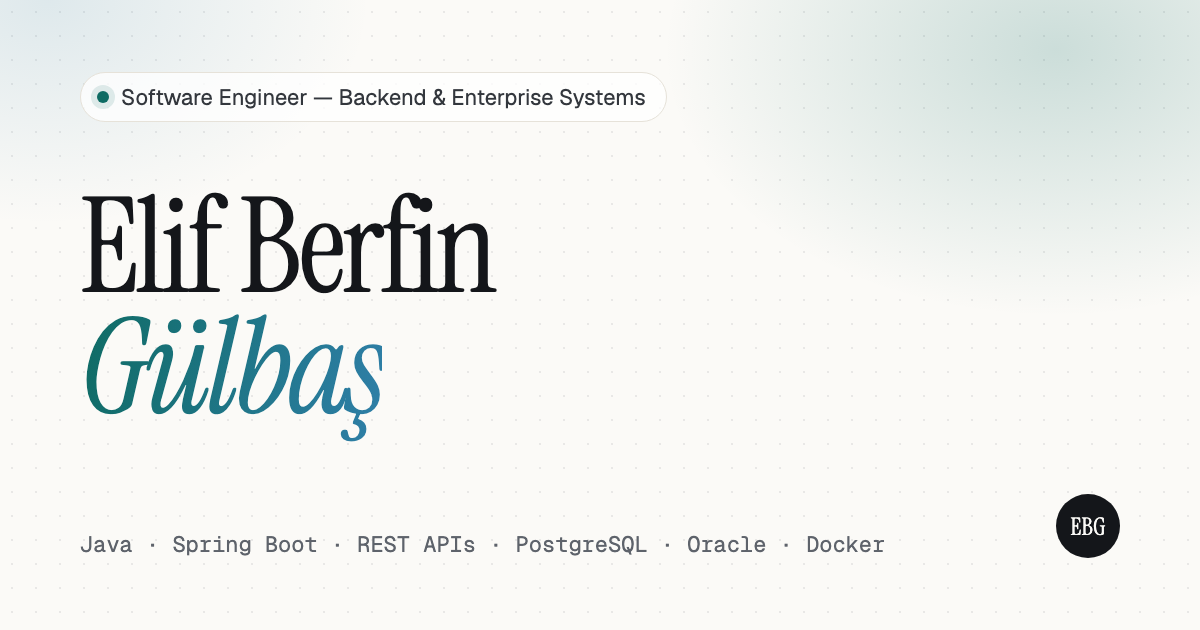
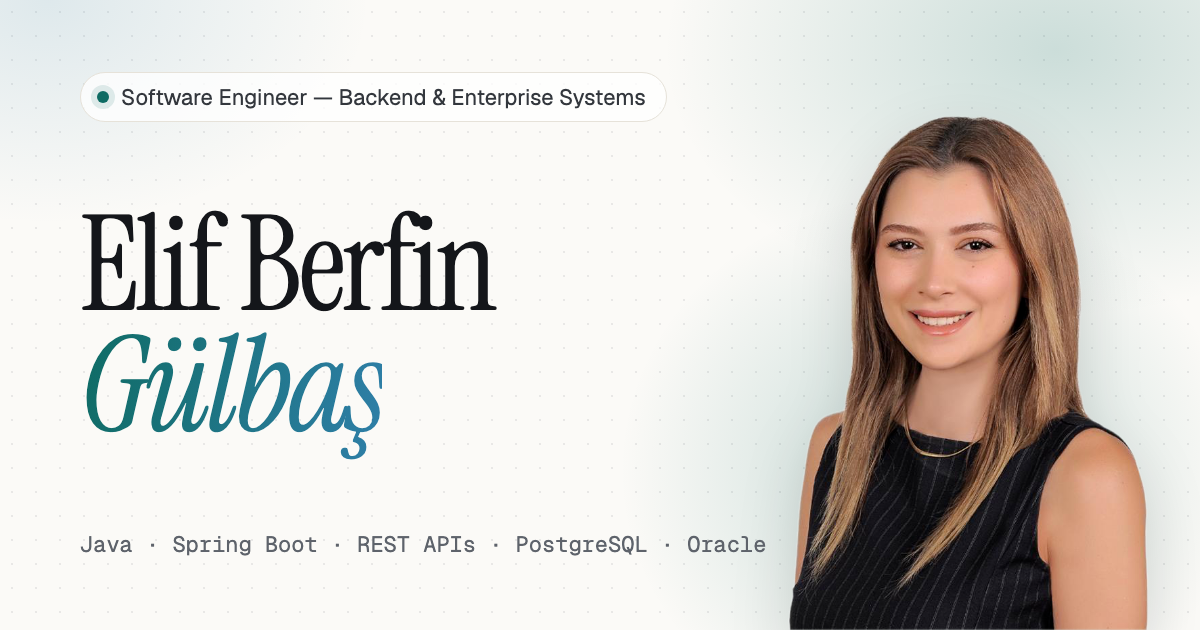
Add portrait to the hero profile card and social image
- Background-free portrait on a soft glow at the top of the "At a glance"
  card (WebP 61 KB with PNG fallback), alt text in both languages
- Portrait in og.png and JSON-LD image; hero copy centred against the card

Changed region(s): [[0.6167, 0.181, 0.9867, 1.0], [0.0617, 0.3016, 0.4317, 0.7238]]

diff --git a/scripts/og.html b/scripts/og.html
@@ -15,10 +15,12 @@
   h1{margin:0;font-family:"Instrument Serif",Georgia,serif;font-weight:400;font-size:132px;line-height:.92;letter-spacing:-.03em}
   h1 em{background:linear-gradient(100deg,#0e6b63,#2f7fa8);-webkit-background-clip:text;color:transparent}
   .foot{display:flex;justify-content:space-between;align-items:flex-end;font-family:"Geist Mono",monospace;font-size:22px;color:#5e636b}
+  .photo{position:absolute;right:40px;bottom:0;height:560px;filter:drop-shadow(0 24px 30px rgba(0,0,0,.14))}
+  .halo{position:absolute;right:-40px;bottom:-120px;width:620px;height:560px;border-radius:50%;background:radial-gradient(closest-side,rgba(14,107,99,.22),transparent)}
   .mark{width:64px;height:64px;border-radius:50%;background:#14161a;color:#fbfaf7;display:grid;place-items:center;font-family:"Instrument Serif",Georgia,serif;font-size:24px}
 </style></head>
-<body><div class="bg"></div><div class="wrap">
+<body><div class="bg"></div><div class="halo"></div><img class="photo" src="../assets/img/portrait.png" alt=""><div class="wrap">
   <span class="pill"><span class="dot"></span>Software Engineer — Backend &amp; Enterprise Systems</span>
   <h1>Elif Berfin<br><em>Gülbaş</em></h1>
-  <div class="foot"><span>Java · Spring Boot · REST APIs · PostgreSQL · Oracle · Docker</span><span class="mark">EBG</span></div>
+  <div class="foot"><span>Java · Spring Boot · REST APIs · PostgreSQL · Oracle</span></div>
 </div></body></html>

diff --git a/assets/css/main.css b/assets/css/main.css
@@ -614,7 +614,7 @@ button {
 .hero__grid {
   display: grid;
   gap: var(--space-7);
-  align-items: end;
+  align-items: center;
 }
 
 @media (min-width: 64rem) {
@@ -713,6 +713,38 @@ button {
   -webkit-backdrop-filter: blur(10px);
   backdrop-filter: blur(10px);
   box-shadow: var(--shadow);
+}
+
+/* Portrait: a background-free cut-out standing on a soft glow at the top of the card. */
+.portrait {
+  position: relative;
+  height: clamp(15rem, 11rem + 9vw, 19rem);
+  margin: calc(-1 * var(--space-5)) calc(-1 * var(--space-5)) var(--space-5);
+  overflow: hidden;
+  border-bottom: 1px solid var(--line);
+  border-radius: var(--radius-lg) var(--radius-lg) 0 0;
+  background:
+    radial-gradient(20rem 13rem at 50% 105%, var(--glow-1), transparent 70%),
+    radial-gradient(14rem 10rem at 88% 8%, var(--glow-2), transparent 70%),
+    radial-gradient(var(--dot) 1px, transparent 1.2px) 0 0 / 18px 18px,
+    var(--surface-2);
+}
+
+.portrait img {
+  position: absolute;
+  left: 50%;
+  bottom: 0;
+  width: auto;
+  height: 106%;
+  max-width: none;
+  transform: translateX(-50%);
+  transform-origin: 50% 100%;
+  transition: transform 0.6s var(--ease);
+  filter: drop-shadow(0 18px 24px rgb(0 0 0 / 0.12));
+}
+
+.glance:hover .portrait img {
+  transform: translateX(-50%) scale(1.025);
 }
 
 .glance__title {

diff --git a/index.html b/index.html
@@ -47,6 +47,7 @@
     "@type": "Person",
     "name": "Elif Berfin Gülbaş",
     "jobTitle": "Software Engineer",
+    "image": "https://elfberf.github.io/assets/img/portrait.png",
     "url": "https://elfberf.github.io/",
     "email": "mailto:berfingulbas@gmail.com",
     "address": { "@type": "PostalAddress", "addressLocality": "Ankara", "addressCountry": "TR" },
@@ -156,6 +157,12 @@
         </div>
 
         <aside class="glance reveal" aria-labelledby="glance-title">
+          <figure class="portrait">
+            <picture>
+              <source srcset="assets/img/portrait.webp" type="image/webp">
+              <img src="assets/img/portrait.png" width="591" height="827" alt="Portrait of Elif Berfin Gülbaş" data-i18n-attr="alt:portrait.alt" fetchpriority="high" decoding="async">
+            </picture>
+          </figure>
           <h2 class="glance__title" id="glance-title" data-i18n="glance.title">At a glance</h2>
           <div data-render="glance"></div>
         </aside>

diff --git a/assets/js/i18n.js b/assets/js/i18n.js
@@ -134,6 +134,7 @@ export const strings = {
     "assistant.m.restart": "Write another message",
     "assistant.m.other": "Ask something else",
     "intro.play": "Play the light effect",
+    "portrait.alt": "Portrait of Elif Berfin Gülbaş",
     "footer.top": "Back to top",
     "footer.built": "Built with plain HTML, CSS and JavaScript.",
     noscript: "Case studies, experience and skills need JavaScript. The full CV is available on LinkedIn.",
@@ -260,6 +261,7 @@ export const strings = {
     "assistant.m.restart": "Başka bir mesaj yaz",
     "assistant.m.other": "Başka bir şey sor",
     "intro.play": "Işık efektini oynat",
+    "portrait.alt": "Elif Berfin Gülbaş'ın portresi",
     "footer.top": "Başa dön",
     "footer.built": "Sade HTML, CSS ve JavaScript ile geliştirildi.",
     noscript: "Projeler, deneyim ve yetkinlikler için JavaScript gerekir. Özgeçmişin tamamı LinkedIn'de.",

diff --git a/docs/CONTENT_SOURCES.md b/docs/CONTENT_SOURCES.md
@@ -27,4 +27,6 @@ a faithful translation. Numbers and qualifiers are kept exactly in both language
 | Languages | Turkish native, English C1, German B1 | Diller |
 | Contact | Email, GitHub `elfberf`, LinkedIn `berfingulbas` | Header links |
 
+Portrait (`assets/img/portrait.*`): provided by the owner for this site; also used in `og.png`.
+
 Deliberately **not** published: phone number, references.
